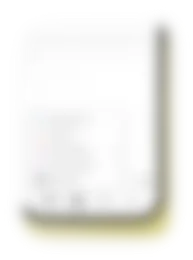
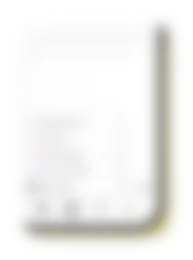
Attach Menu and Tab Bar: mirrored thumbnail crops, even background
Attach Menu shows the phone's bottom-left corner and Tab Bar its
bottom-right, each with the same width of background beside and below
the phone, measured from the films. Blurred grid stills redone.

Claude-Session: https://claude.ai/code/session_01KWunyGjQtk3sCnGrUXUHPS

Changed region(s): [[0.0933, 0.7692, 0.8705, 0.9231]]

diff --git a/src/content/work/tab-bar.md b/src/content/work/tab-bar.md
@@ -16,7 +16,7 @@ cover:
       mp4: images/work/tab-bar-dark.mp4
       poster: images/work/tab-bar-dark.jpg
     start: 22.5
-    rest: [0.537, 0.537, 1.08]   # thumbnail: the Projects tab's menu over the tab bar, the phone's bottom-right corner in with yellow beside and below it (Attach Menu's runs the other way)
+    rest: [0.5628, 0.5219, 1.15]   # thumbnail: the Projects tab's menu over the tab bar, the phone's bottom-right corner with the same width of yellow beside and below it (mirroring Attach Menu's); the chat text runs off the left
     device: full   # a finished film (phone, background, camera and touches all in it), edge to edge
 ---
 

diff --git a/src/content/work/attach-menu.md b/src/content/work/attach-menu.md
@@ -16,7 +16,7 @@ cover:
       mp4: images/work/attach-menu-dark.mp4
       poster: images/work/attach-menu-dark.jpg
     start: 6
-    rest: [0.37, 0.63, 1.35]   # thumbnail: in on the attach menu, the phone's bottom-left corner with blue beside and below it; its right side runs off the cover
+    rest: [0.4459, 0.6224, 1.35]   # thumbnail: in on the attach menu, the phone's bottom-left corner with the same width of blue beside and below it; its right side runs off the cover
     device: full   # a finished film (phone, background, camera and touches all in it), edge to edge
 ---
 
